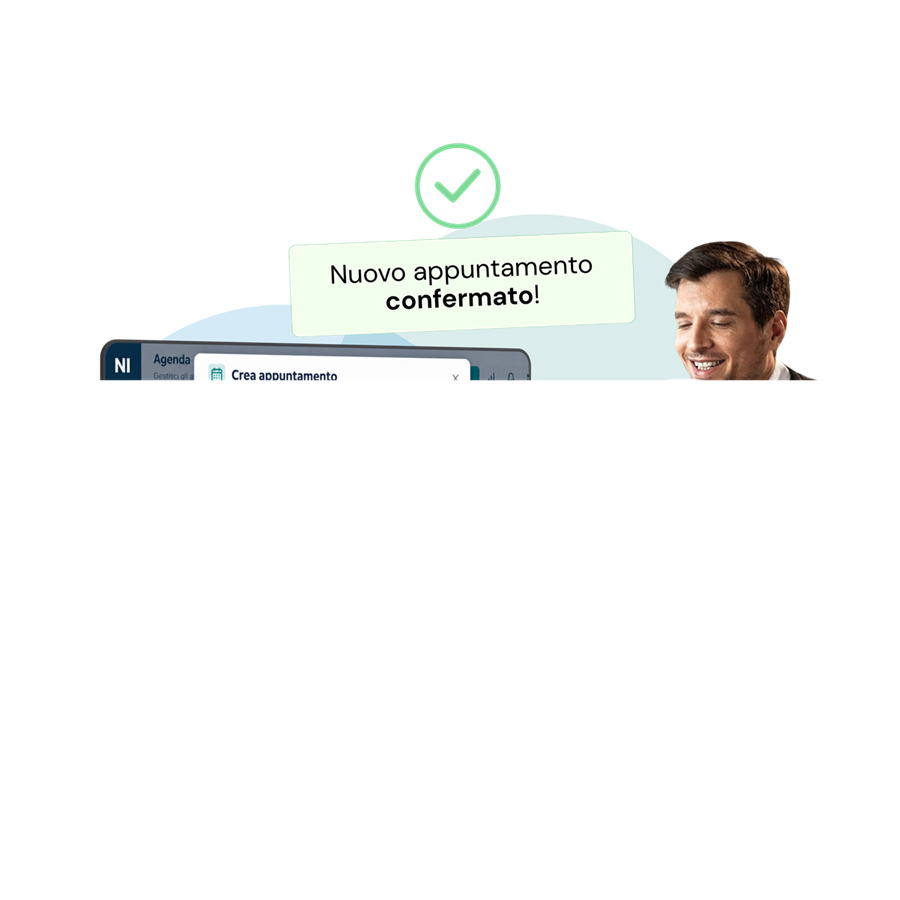
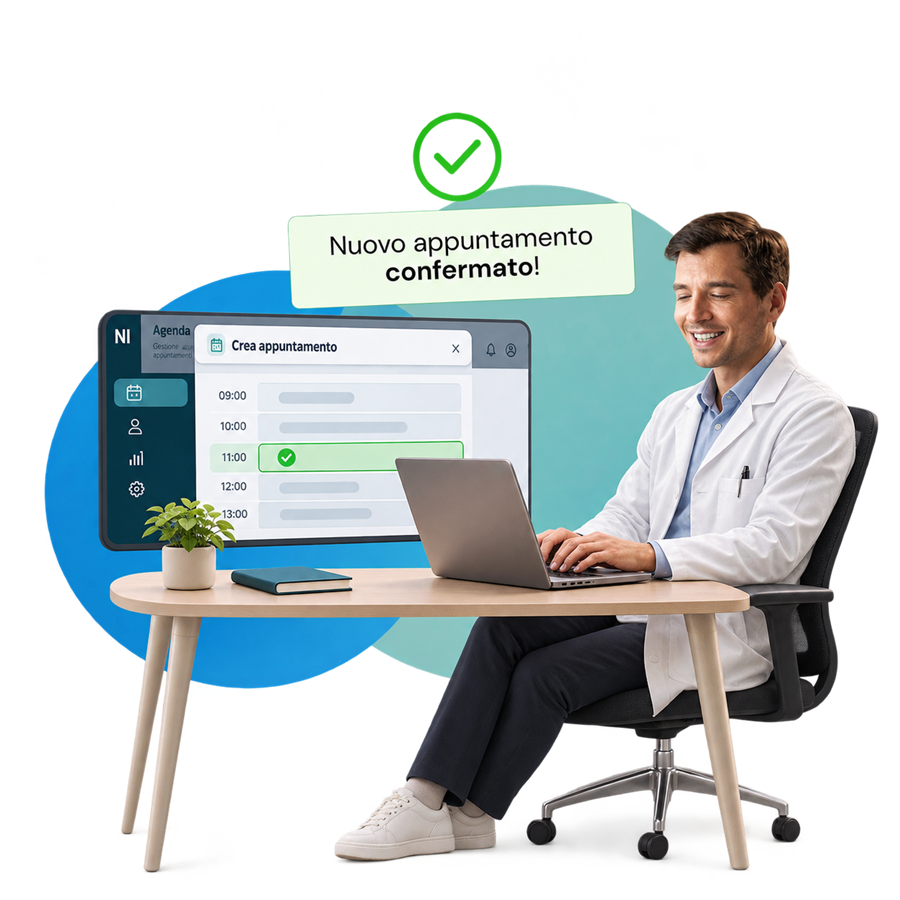
ultime modifiche a immagini carosello

diff --git a/src/styles.optimized.css b/src/styles.optimized.css
@@ -391,12 +391,12 @@ main{position:relative;background:
 
 /* Complete cause/effect artwork supplied for the six use cases */
 .usecase-composite-panel{display:grid;place-items:center;min-height:0}
-.usecase-composite{display:block;width:92%;height:88%;max-width:min(620px,43vw);object-fit:contain;transform:translateY(-3%);filter:drop-shadow(0 20px 34px rgba(5,44,67,.1));will-change:transform,opacity}
+.usecase-composite{display:block;width:92%;height:86%;max-width:min(620px,43vw);object-fit:contain;transform:translateY(-9%);filter:drop-shadow(0 20px 34px rgba(5,44,67,.1));will-change:transform,opacity}
 .usecase-composite-panel.side-left .usecase-composite{justify-self:end}
 .usecase-composite-panel.side-right .usecase-composite{justify-self:start}
 
 @media(max-width:720px){
   .usecases-stage{grid-template-columns:1fr;grid-template-rows:repeat(2,minmax(0,1fr));gap:0}
-  .usecase-composite{width:94%;height:88%;max-width:min(90vw,430px);max-height:88%;transform:translateY(-2%);justify-self:center!important}
+  .usecase-composite{width:94%;height:86%;max-width:min(90vw,430px);max-height:86%;transform:translateY(-6%);justify-self:center!important}
   .usecase-composite-panel.is-waiting{transform:translate3d(0,4vh,0)}
 }
